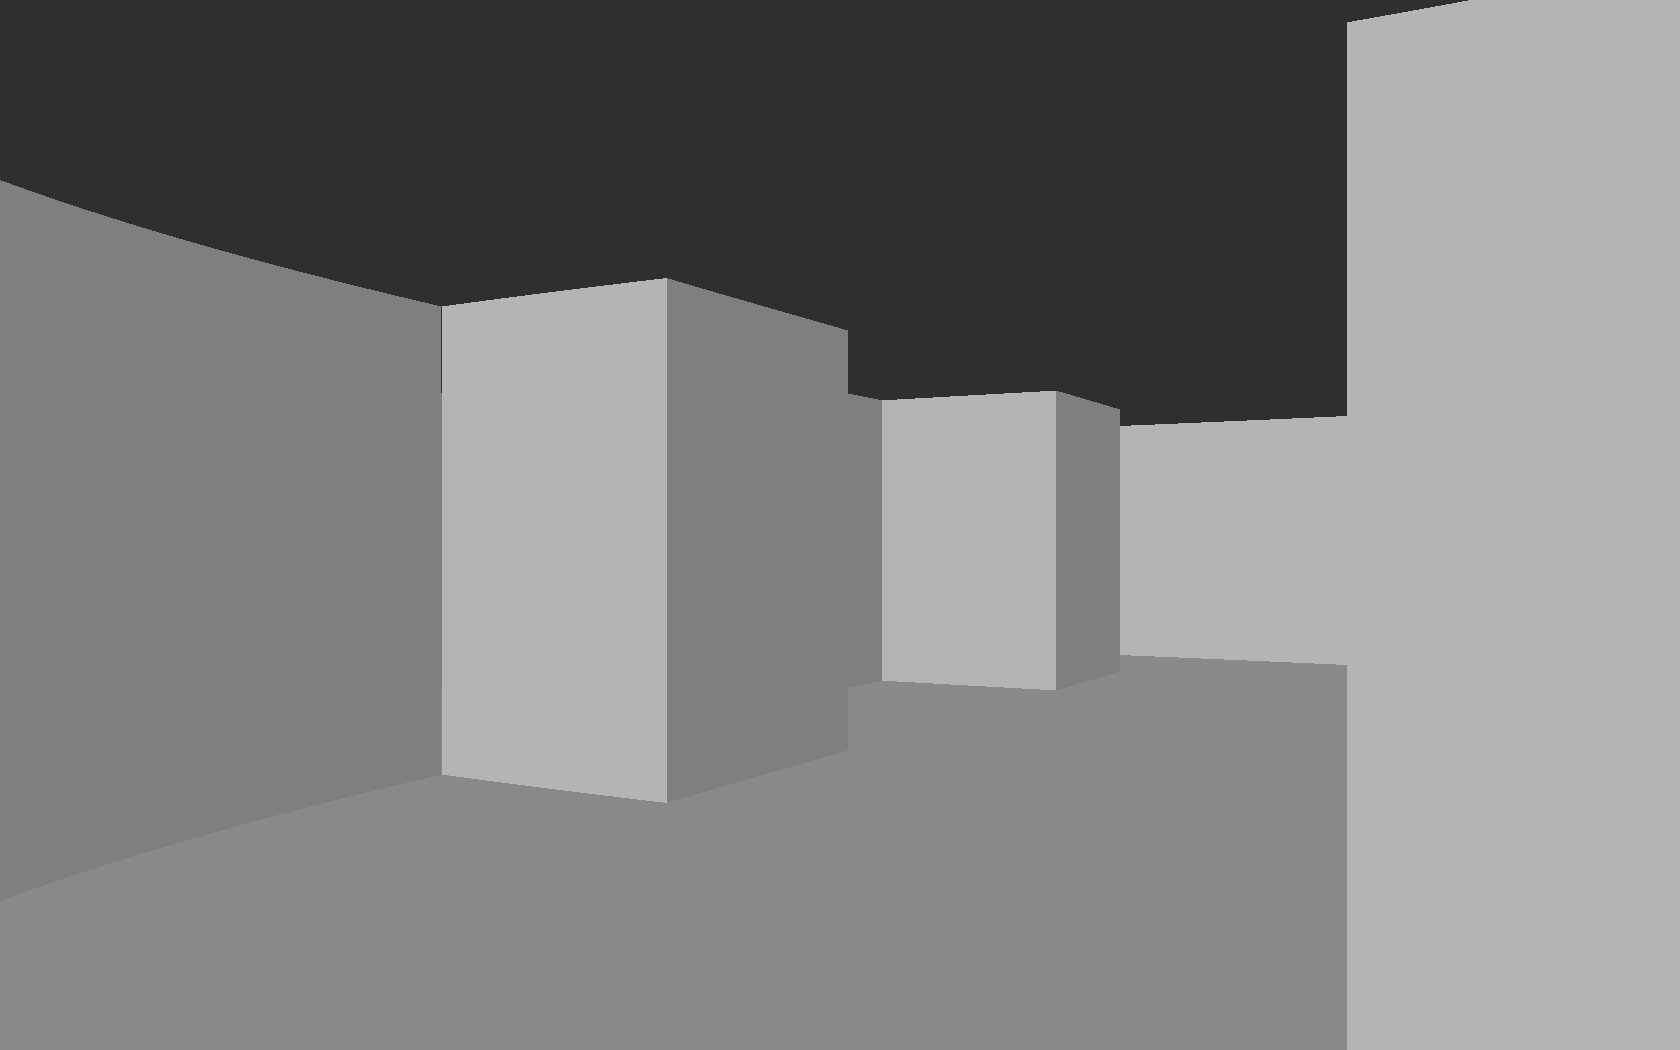
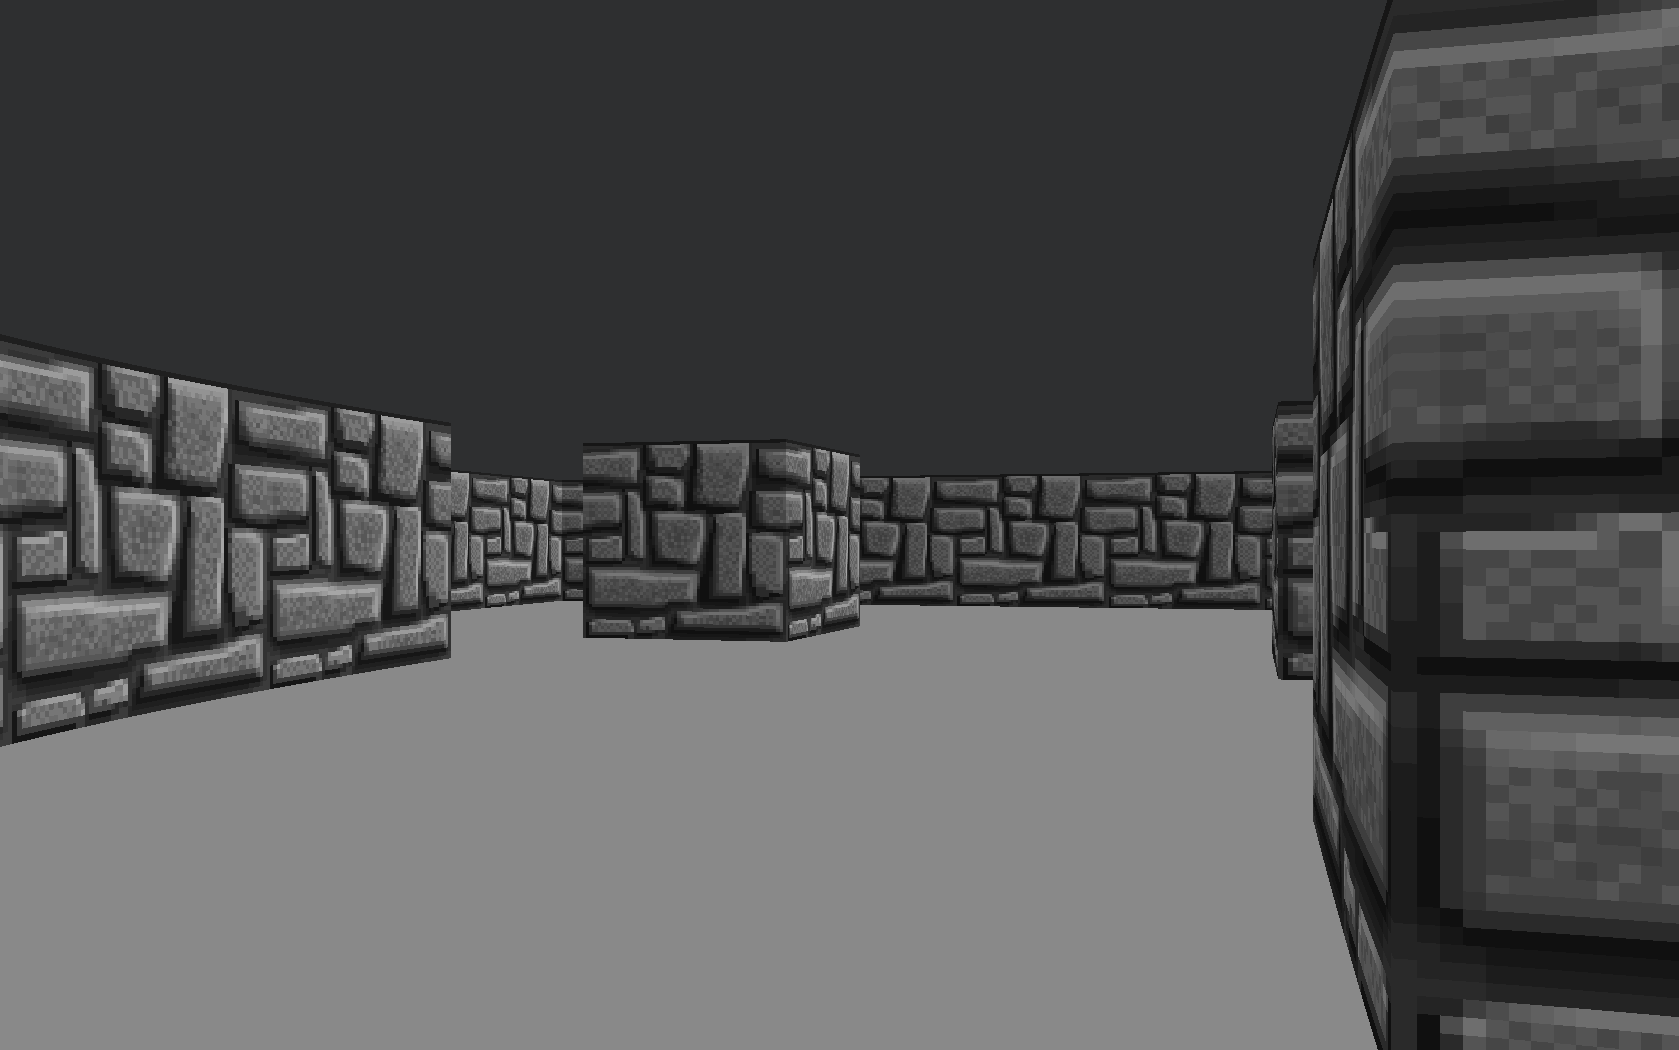
textures are working now, looks dope af

diff --git a/README.md b/README.md
@@ -11,3 +11,6 @@ Implements a [raycaster](https://en.wikipedia.org/wiki/Ray_casting) in CUDA. Ren
 - [cuda](https://www.nvidia.com/object/cuda_home_new.html)
 - [glfw](www.glfw.org)
 - [glew](http://glew.sourceforge.net)
+- [stb](https://github.com/nothings/stb)
+
+Install CUDA, GLFW and GLEW through your dependency management of choice. For stb, simply clone the repo to the root directory of this project and the makefile will automatically add the necessary include directives.
